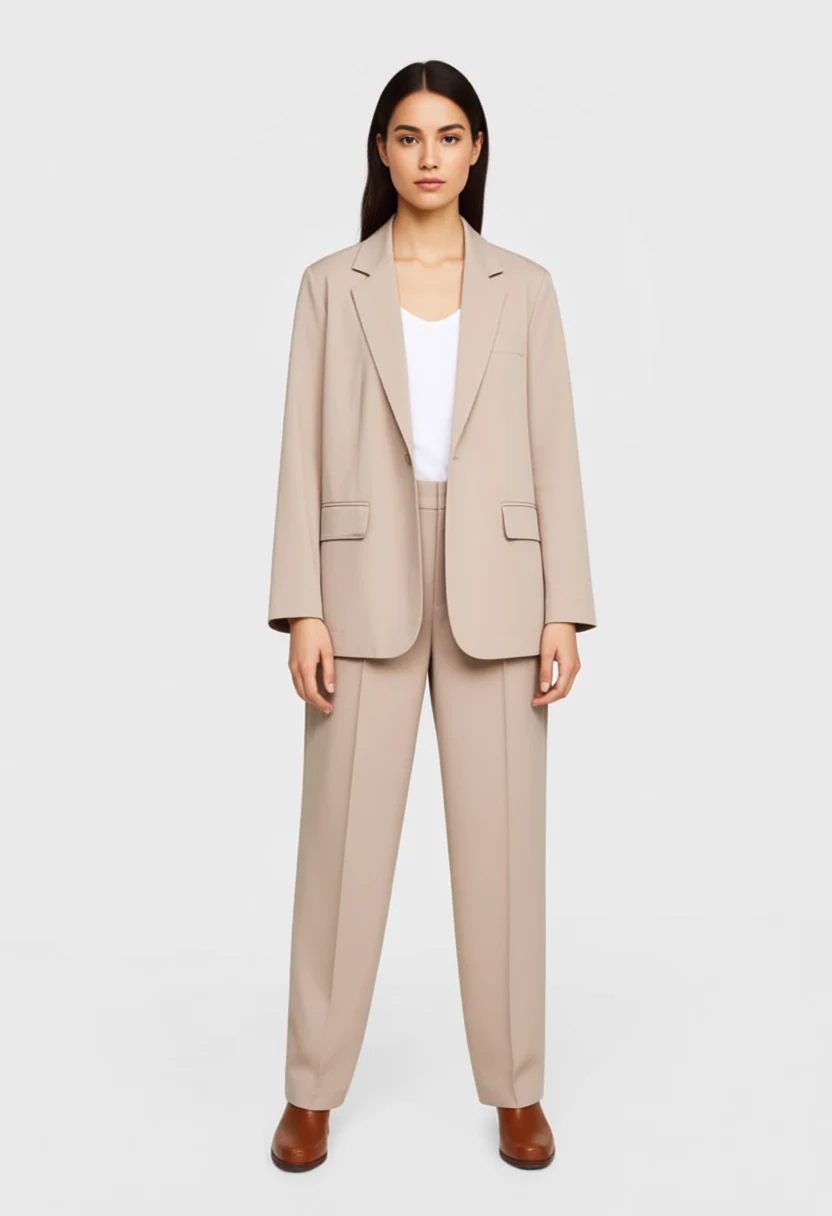
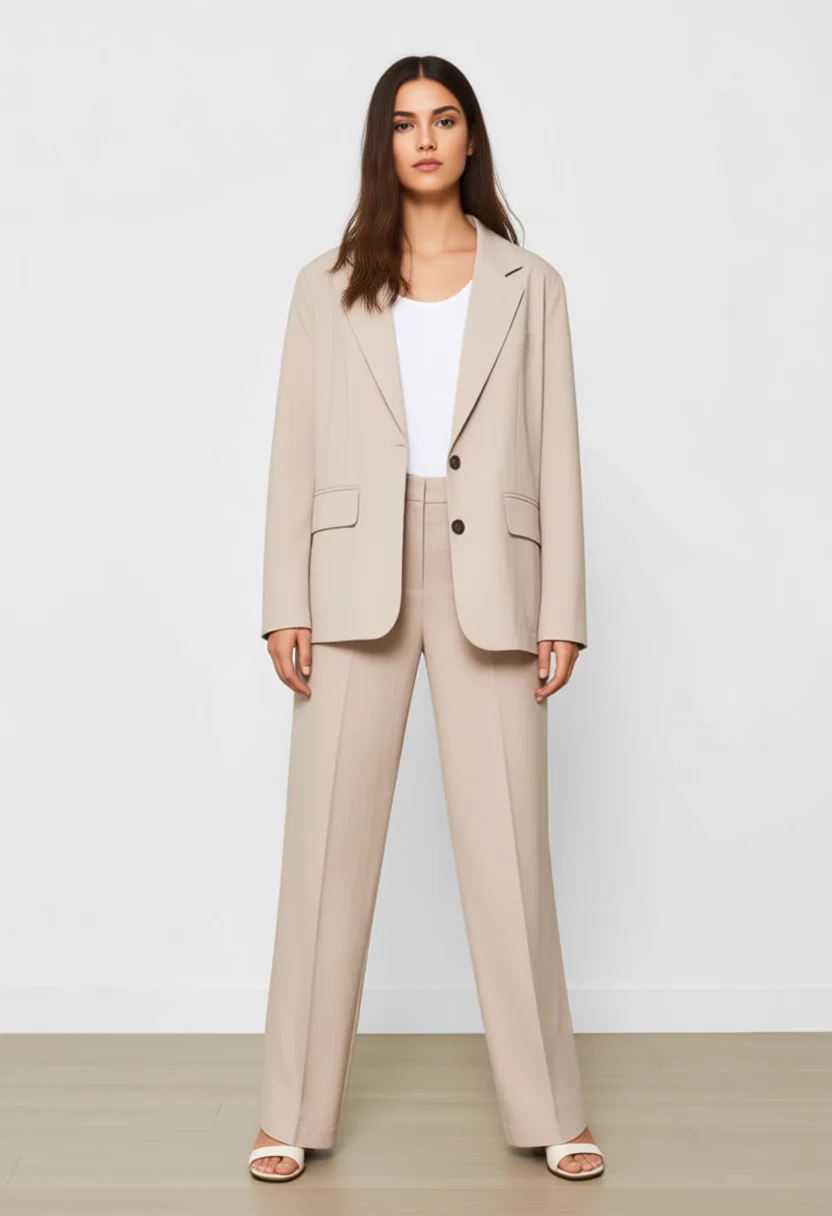
Fix catalog mode routing, photos_used tracking, payment double-credit, and card images
Backend fixes:
- Catalog mode + image now routes to BiRefNet background removal instead of Qwen
  (Qwen was ignoring the scene prompt and producing background-only output)
- Add catalog_birefnet.json workflow; composite RGBA output onto white background
- generation.py: increment subscription.photos_used after every successful generation
- generation.py: return image width/height in response (decoded via Pillow)
- payments.py: fix Tinkoff + Yandex webhook double-credit race — use atomic
  UPDATE WHERE status=pending RETURNING to prevent concurrent retries granting
  tokens twice

Landing card images (3 regenerated, 1 restored):
- Lifestyle: luxury marble + rose petals scene instead of plain cafe repeat
- Fitting: editorial stone wall + wood floor instead of flat white background
- Stories: dark marble + golden bokeh vertical format
- Catalog: restored to committed version (previous session had overwritten it)

Changed region(s): [[0.0, 0.0312, 1.0, 1.0], [0.5625, 0.3125, 0.5938, 0.3438]]

diff --git a/domstudio-backend/routers/payments.py b/domstudio-backend/routers/payments.py
@@ -217,22 +217,30 @@ async def tinkoff_webhook(
     if not hmac.compare_digest(expected, webhook.Token):
         raise HTTPException(400, "Invalid signature")
 
-    payment = await db.scalar(
-        select(Payment).where(Payment.provider_order_id == webhook.PaymentId)
-    )
-    if not payment:
-        return PlainTextResponse("OK")  # acknowledge unknown payments
-
-    if webhook.Status == "CONFIRMED" and payment.status != PaymentStatus.succeeded:
-        payment.status = PaymentStatus.succeeded
-        pack_id = getattr(payment, "pack_id", None)
-        if pack_id:
-            await activate_topup(payment.user_id, pack_id, db)
-        else:
-            await activate_subscription(payment.user_id, payment.plan, db)
+    # Use UPDATE … RETURNING to atomically flip status → prevents double-credit on retried webhooks
+    if webhook.Status == "CONFIRMED":
+        result = await db.execute(
+            update(Payment)
+            .where(
+                Payment.provider_order_id == webhook.PaymentId,
+                Payment.status == PaymentStatus.pending,
+            )
+            .values(status=PaymentStatus.succeeded)
+            .returning(Payment.id, Payment.user_id, Payment.plan, Payment.pack_id)
+        )
+        row = result.first()
+        if row:
+            if row.pack_id:
+                await activate_topup(row.user_id, row.pack_id, db)
+            else:
+                await activate_subscription(row.user_id, row.plan, db)
 
     elif webhook.Status in ("CANCELED", "REJECTED", "DEADLINE_EXPIRED"):
-        payment.status = PaymentStatus.failed
+        await db.execute(
+            update(Payment)
+            .where(Payment.provider_order_id == webhook.PaymentId)
+            .values(status=PaymentStatus.failed)
+        )
 
     return PlainTextResponse("OK")
 
@@ -324,15 +332,25 @@ async def yandex_webhook(
     order_id = data.get("orderId")
     event    = data.get("eventType")
 
-    payment = await db.scalar(select(Payment).where(Payment.id == order_id))
-    if not payment:
-        return {"ok": True}
-
-    if event == "ORDER_PAID" and payment.status != PaymentStatus.succeeded:
-        payment.status = PaymentStatus.succeeded
-        await activate_subscription(payment.user_id, payment.plan, db)
+    if event == "ORDER_PAID":
+        result = await db.execute(
+            update(Payment)
+            .where(Payment.id == order_id, Payment.status == PaymentStatus.pending)
+            .values(status=PaymentStatus.succeeded)
+            .returning(Payment.user_id, Payment.plan, Payment.pack_id)
+        )
+        row = result.first()
+        if row:
+            if row.pack_id:
+                await activate_topup(row.user_id, row.pack_id, db)
+            else:
+                await activate_subscription(row.user_id, row.plan, db)
     elif event in ("ORDER_FAILED", "ORDER_CANCELLED"):
-        payment.status = PaymentStatus.failed
+        await db.execute(
+            update(Payment)
+            .where(Payment.id == order_id)
+            .values(status=PaymentStatus.failed)
+        )
 
     return {"ok": True}
 

diff --git a/generate_card_images.py b/generate_card_images.py
@@ -10,7 +10,7 @@ import time
 import uuid
 from pathlib import Path
 
-COMFY  = "https://testing-armor-tank-antibody.trycloudflare.com"
+COMFY  = "https://airports-contributed-fields-jet.trycloudflare.com"
 ASSETS = Path("domstudio-frontend/src/assets")
 
 MODES = [
@@ -52,11 +52,14 @@ MODES = [
         "after":  "mode-lifestyle-real-v3.webp",
         "width": 1024, "height": 1024, "steps": 4,
         "prompt": (
-            "Lifestyle editorial product photo. "
-            "Keep the exact same tan brown leather crossbody bag from the input image. "
-            "Place it as the hero on a marble cafe table with a coffee cup beside it, "
-            "warm afternoon natural light, editorial magazine quality, "
-            "authentic everyday lifestyle scene, the bag is clearly the main subject."
+            "Luxury fashion editorial product photo. "
+            "Keep the exact same tan cognac leather crossbody bag from the input image as the hero. "
+            "COMPLETELY CHANGE the background and setting: place the bag on cream Italian marble "
+            "with scattered white rose petals and a small luxury perfume bottle beside it. "
+            "Warm golden hour side light casting soft elegant shadows. "
+            "Remove the coffee cup, remove the sunglasses, remove the cafe chair. "
+            "Blurred warm ivory studio background. "
+            "Vogue Russia editorial quality, aspirational luxury brand campaign."
         ),
     },
     {
@@ -65,12 +68,14 @@ MODES = [
         "after":  "mode-fitting-real-v2.webp",
         "width": 832, "height": 1216, "steps": 4,
         "prompt": (
-            "Fashion e-commerce virtual try-on photo. "
-            "Show the exact same beige linen blazer and matching wide-leg trousers from the input image "
-            "being worn by a slim female model. "
-            "Clean white studio background, full body portrait shot, "
-            "correct professional fit with natural fabric drape, "
-            "fashion marketplace listing quality."
+            "Fashion virtual try-on editorial photo. "
+            "Show the exact same beige oversized blazer and wide-leg trousers from the input image "
+            "worn by a confident slim female model with dark hair. "
+            "CHANGE the background to a stylish minimal interior: "
+            "large arched window with soft diffused natural light, "
+            "blurred light stone wall behind her, warm wooden floor. "
+            "Full body portrait, model standing naturally, hands relaxed at sides. "
+            "Lamoda / Revolve campaign quality, editorial fashion photography, not a plain white background."
         ),
     },
     {
@@ -79,12 +84,13 @@ MODES = [
         "after":  "mode-stories-real-v3.webp",
         "width": 608, "height": 1080, "steps": 4,
         "prompt": (
-            "Vertical 9:16 Instagram story creative. "
-            "Keep the exact same clear glass juice bottle and small green dropper serum bottle "
-            "from the input image as the featured products. "
-            "Minimal wellness aesthetic, soft natural light, indoor plants in background, "
-            "products centered in the safe zone, "
-            "UGC organic feel, mobile-first composition."
+            "Vertical 9:16 premium Instagram / VK story beauty creative. "
+            "Feature ONLY the small green glass dropper serum bottle as the hero product. "
+            "Place it centered in the lower third of a vertical composition. "
+            "Background: deep dark marble with warm golden bokeh light orbs. "
+            "Dramatic product lighting from above, sharp glass reflections. "
+            "Large empty space in the top third for story text overlay. "
+            "Premium skincare brand editorial, luxury beauty campaign quality, scroll-stopping vertical visual."
         ),
     },
 ]

diff --git a/domstudio-backend/services/comfy_client.py b/domstudio-backend/services/comfy_client.py
@@ -332,11 +332,39 @@ async def generate_image_with_comfy(request: Any) -> dict[str, Any]:
     client = ComfyClient(base_url)
 
     image_name = ""
+    is_catalog = getattr(request, "mode", "") == "catalog"
+
     if request.image:
         image_name = await client.upload_image(request.image)
-        workflow_file = "product_image_img2img.json"
+        workflow_file = "catalog_birefnet.json" if is_catalog else "product_image_img2img.json"
     else:
         workflow_file = "product_image.json"
 
     workflow = render_workflow(load_workflow(workflow_file), request, image_name=image_name)
-    return await client.run_workflow(workflow)
+    result = await client.run_workflow(workflow)
+
+    # Catalog BiRefNet returns RGBA — composite onto white so output is clean white-bg JPEG/PNG
+    if is_catalog and request.image and result.get("status") == "success":
+        result = _composite_on_white(result)
+
+    return result
+
+
+def _composite_on_white(result: dict[str, Any]) -> dict[str, Any]:
+    """Composite an RGBA base64 image onto a white background and return updated result."""
+    try:
+        import base64
+        import io
+        from PIL import Image
+
+        raw = base64.b64decode(result["image"])
+        img = Image.open(io.BytesIO(raw)).convert("RGBA")
+        bg = Image.new("RGBA", img.size, (255, 255, 255, 255))
+        bg.paste(img, mask=img.split()[3])
+        out = bg.convert("RGB")
+        buf = io.BytesIO()
+        out.save(buf, format="PNG")
+        result = {**result, "image": base64.b64encode(buf.getvalue()).decode(), "format": "PNG"}
+    except Exception:
+        pass  # if Pillow unavailable, return raw RGBA — not ideal but not a crash
+    return result

diff --git a/domstudio-backend/routers/generation.py b/domstudio-backend/routers/generation.py
@@ -7,6 +7,8 @@ GET  /generation/jobs/{job_id} — poll a single job by id
 """
 
 import asyncio
+import base64
+import io
 import os
 
 import httpx
@@ -15,7 +17,7 @@ from pydantic import BaseModel, Field
 from sqlalchemy import select, update
 from sqlalchemy.ext.asyncio import AsyncSession
 
-from database import AsyncSessionLocal, GenerationJob, JobStatus, TokenBalance, User, get_db
+from database import AsyncSessionLocal, GenerationJob, JobStatus, Subscription, TokenBalance, User, get_db
 from dependencies import get_current_user
 from services.comfy_client import generate_image_with_comfy
 
@@ -62,6 +64,25 @@ async def change_balance(db: AsyncSession, user_id, amount: int, require_balance
     return result.scalar_one_or_none()
 
 
+async def increment_photos_used(db: AsyncSession, user_id) -> None:
+    await db.execute(
+        update(Subscription)
+        .where(Subscription.user_id == user_id)
+        .values(photos_used=Subscription.photos_used + 1)
+    )
+
+
+def _image_dimensions(b64: str) -> tuple[int, int]:
+    """Decode base64 image and return (width, height). Returns (0,0) on failure."""
+    try:
+        from PIL import Image
+        data = base64.b64decode(b64)
+        img = Image.open(io.BytesIO(data))
+        return img.width, img.height
+    except Exception:
+        return 0, 0
+
+
 # ─── IMAGE GENERATION (synchronous) ───────────────────────────────────────────
 
 @router.post("/generate")
@@ -92,8 +113,14 @@ async def generate(
         await change_balance(db, current_user.id, IMAGE_TOKEN_COST)
         raise HTTPException(502, f"Generation failed: {exc}") from exc
 
+    await increment_photos_used(db, current_user.id)
+
+    w, h = _image_dimensions(result.get("image", ""))
+
     return {
         **result,
+        "width":          w or None,
+        "height":         h or None,
         "tokens_charged": IMAGE_TOKEN_COST,
         "token_balance":  balance,
     }